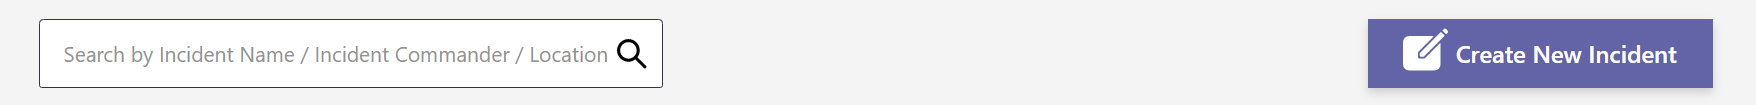
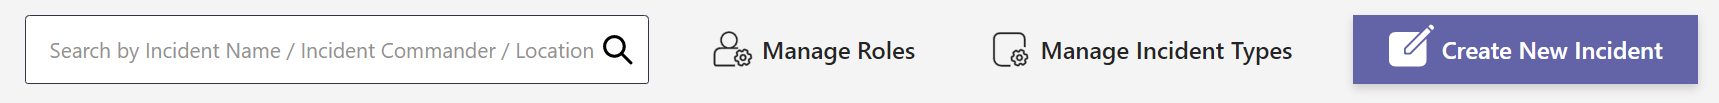
Updated release notes and images

diff --git a/Wiki/ReleaseNotes.md b/Wiki/ReleaseNotes.md
@@ -3,9 +3,18 @@ This page contains the release information for Microsoft Teams Emergency Operati
 ## Version history
 | Version | Release Date |
 |----|----|
+| 0.5.1 | Apr 28, 2022 |
 | 0.5 | Mar 31, 2022 |
 
 ## Release notes
+
+### v0.5.1 (Apr 28, 2022)
+
+This app is released in _Public Preview_ mode. Below are the changes released with this version - 
+
+- Allow users to manage roles and incident types from dashboard.
+- Fix for incident creation failure for GCC tenant.
+- Wiki updates
 
 ### v0.5 (Mar 31, 2022)
 
